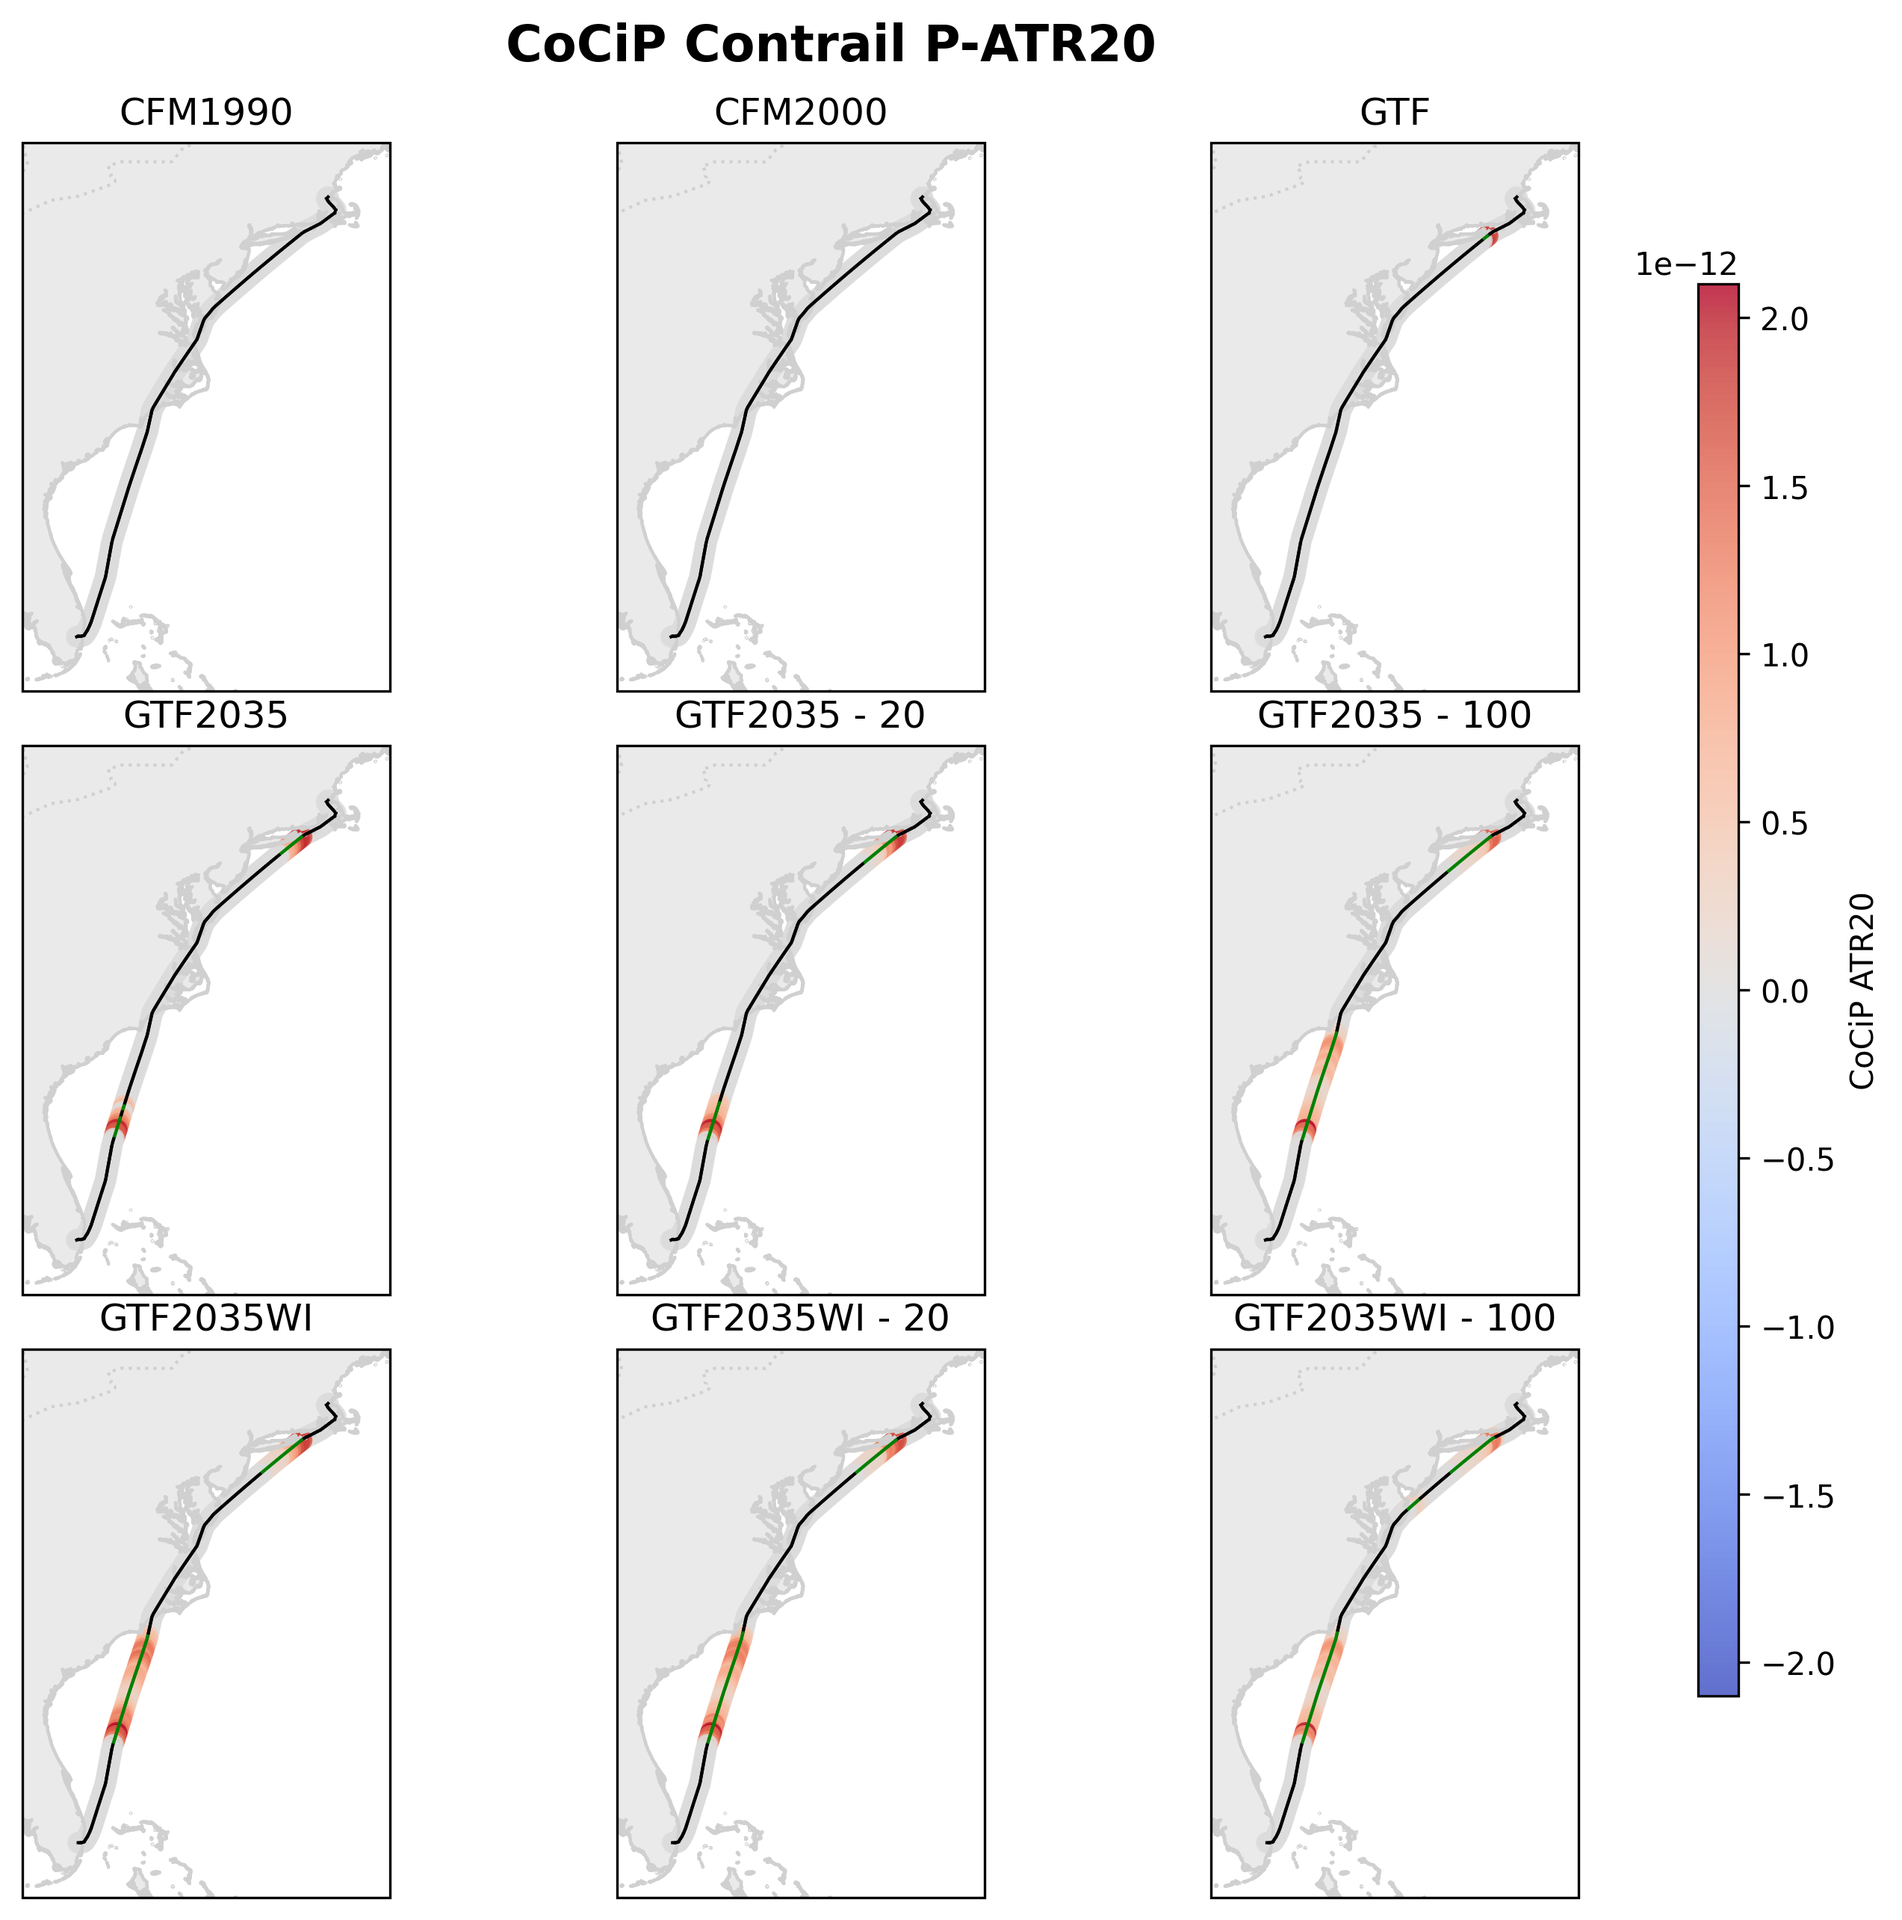
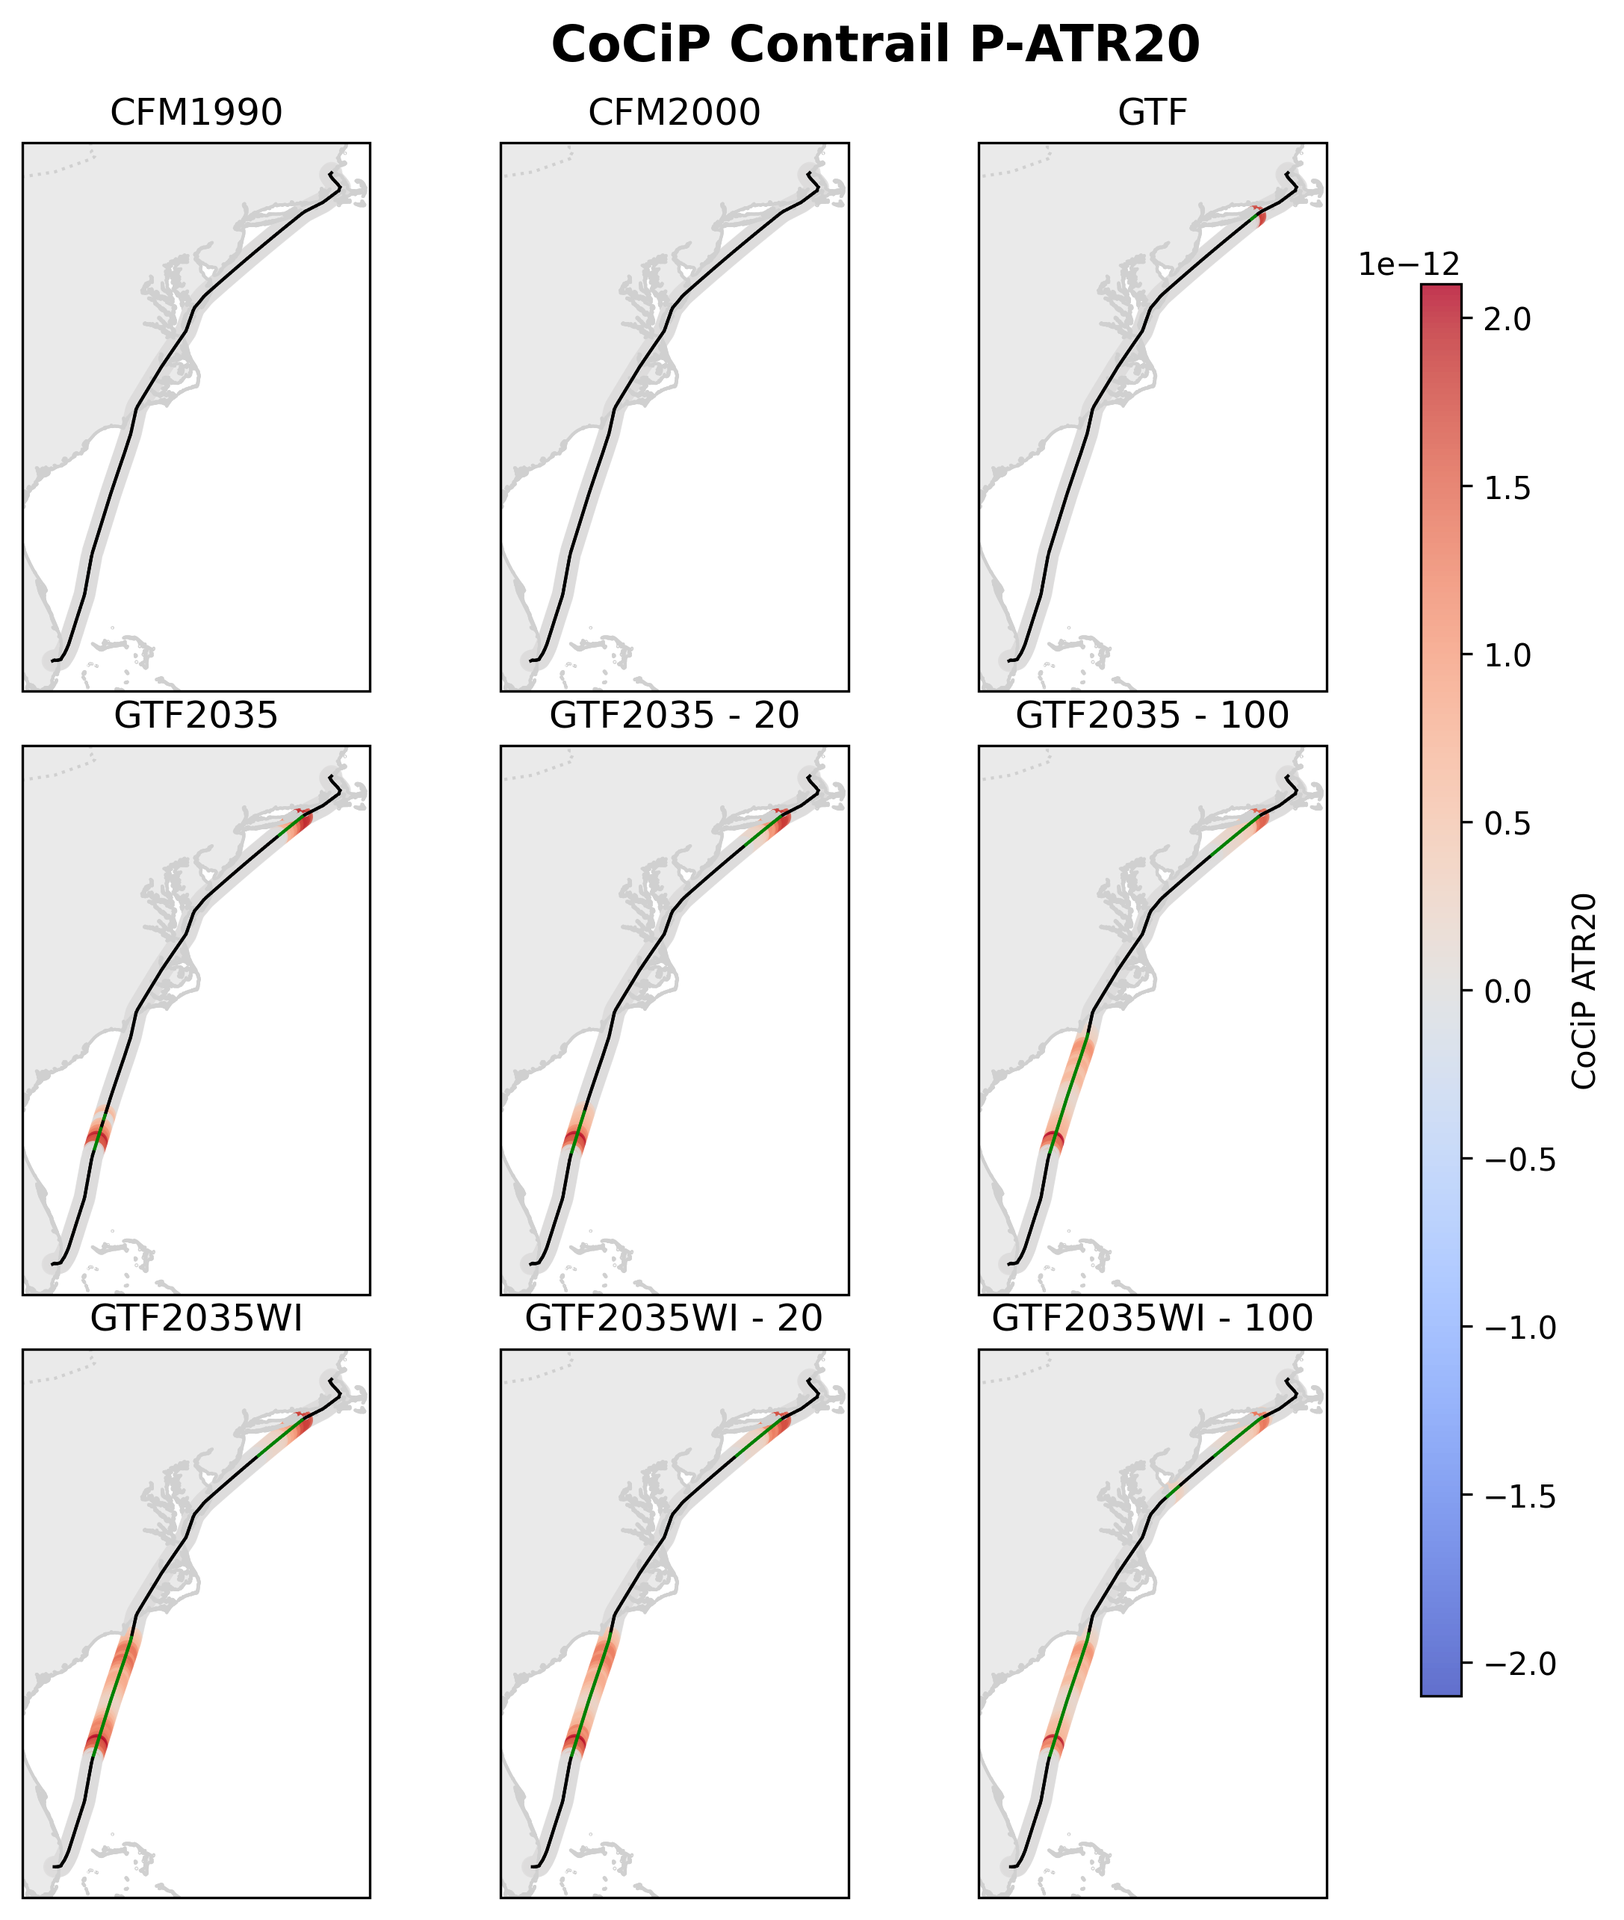
climate special cases

diff --git a/results_climate_map_engine_comp_signdiff.py b/results_climate_map_engine_comp_signdiff.py
@@ -253,7 +253,7 @@ def plot_cocip_atr20_evolution(trajectory, flight_date, time_of_day, save_fig=Fa
                 atr_max_global = max(atr_max_global, flight_df['cocip_atr20'].max())
 
     # Expand bounds by ±2 degrees
-    buffer = 2
+    buffer = 1
     global_lon_min -= buffer
     global_lon_max += buffer
     global_lat_min -= buffer
@@ -304,12 +304,12 @@ def plot_cocip_atr20_evolution(trajectory, flight_date, time_of_day, save_fig=Fa
         subplot_idx += 1
 
     # Adjust layout to minimize whitespace
-    plt.subplots_adjust(left=0.05, right=0.92, top=0.92, bottom=0.05, wspace=0.05, hspace=0.1)
+    plt.subplots_adjust(left=0.05, right=0.75, top=0.92, bottom=0.05, wspace=0.05, hspace=0.1)
     plt.suptitle(f"CoCiP Contrail P-ATR20", fontsize=16,
                  fontweight='bold')
 
     # Add a single colorbar for all plots
-    cbar_ax = fig.add_axes([0.93, 0.15, 0.02, 0.7])  # Adjust colorbar position
+    cbar_ax = fig.add_axes([0.77, 0.15, 0.02, 0.7])  # Adjust colorbar position
     fig.colorbar(sc, cax=cbar_ax, label="CoCiP ATR20")
 
     if save_fig:
